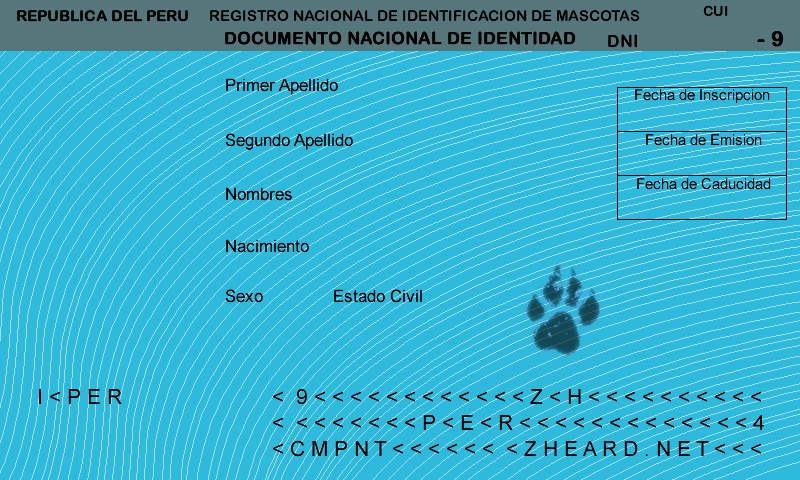
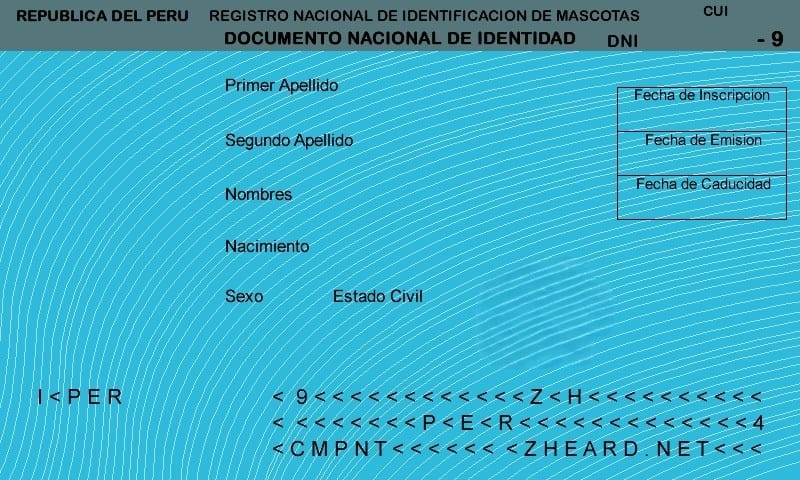
chore: OACI model done , ready  to update DNIDataModel in order to load below side from dni

Changed region(s): [[0.0, 0.0625, 1.0, 1.0]]

diff --git a/src/main/java/com/etlions/ms_cv_identity_doc/core/loader/OACIDataLoader.java b/src/main/java/com/etlions/ms_cv_identity_doc/core/loader/OACIDataLoader.java
@@ -1,0 +1,94 @@
+package com.etlions.ms_cv_identity_doc.core.loader;
+
+import com.etlions.ms_cv_identity_doc.core.model.OACIDataModel;
+import java.text.Normalizer;
+import java.time.LocalDate;
+import java.time.format.DateTimeFormatter;
+import java.util.Random;
+
+public class OACIDataLoader {
+
+    private static final int MRZ_LINE_LENGTH = 30;
+    private static final DateTimeFormatter MRZ_DATE = DateTimeFormatter.ofPattern("yyMMdd");
+    private static final Random RANDOM = new Random();
+
+    public static OACIDataModel generateOACI(
+            String documentNumber,
+            String nationality,
+            String firstLastName,
+            String firstName,
+            String secondName,
+            LocalDate birthDate,
+            LocalDate expirationDate,
+            String sex
+    ) {
+        String check1 = String.valueOf(RANDOM.nextInt(10));
+        String check2 = String.valueOf(RANDOM.nextInt(10));
+        String check3 = String.valueOf(RANDOM.nextInt(10));
+        String check4 = String.valueOf(RANDOM.nextInt(10));
+
+        String fullSurname = normalizeOACI(firstLastName);
+        String fullName = normalizeOACI(firstName) + (secondName != null && !secondName.isBlank() ? "<" + normalizeOACI(secondName) : "");
+
+        String line1 = padRight(
+                "I<" + formatCode(nationality) + padRight(documentNumber, 9, '<') + check1, // 4 = dummy check digit
+                MRZ_LINE_LENGTH, '<');
+
+        String birth = MRZ_DATE.format(birthDate);
+        String expiry = isOlderThan60(birthDate)
+                ? "000101"
+                : MRZ_DATE.format(expirationDate);
+
+        String baseLine2 = birth + check2 + sex.toUpperCase().charAt(0) + expiry + check3 + formatCode(nationality);
+        String line2 = padRight(baseLine2, MRZ_LINE_LENGTH - 1, '<') + check4;
+
+        String line3 = padRight(
+                fullSurname + "<<" + fullName,
+                MRZ_LINE_LENGTH, '<');
+
+        OACIDataModel oaci = new OACIDataModel();
+        oaci.setFirstLine(line1.split(""));
+        oaci.setSecondLine(line2.split(""));
+        oaci.setThirdLine(line3.split(""));
+        return oaci;
+    }
+
+    private static boolean isOlderThan60(LocalDate birthDate) {
+        return birthDate != null && birthDate.plusYears(60).isBefore(LocalDate.now());
+    }
+
+    private static String normalizeOACI(String input) {
+        if (input == null) return "";
+        return Normalizer.normalize(input, Normalizer.Form.NFD)
+                .replaceAll("\\p{M}", "")
+                .replaceAll("[^A-Z<]", "")
+                .replaceAll(" ", "<")
+                .toUpperCase();
+    }
+
+    private static String formatCode(String code) {
+        return (code == null || code.isBlank()) ? "PER" : code.toUpperCase();
+    }
+
+    private static String padRight(String text, int length, char filler) {
+        return text.length() >= length ? text.substring(0, length)
+                : text + String.valueOf(filler).repeat(length - text.length());
+    }
+
+    public static void main(String[] args) {
+        OACIDataModel oaci = generateOACI(
+                "72604199",
+                "PER",
+                "GARCIA",
+                "MARIA",
+                "GUADALUPE",
+                LocalDate.of(1960, 5, 23),
+                LocalDate.of(2025, 1, 1),
+                "F"
+        );
+
+        System.out.println("Línea 1: " + String.join("", oaci.getFirstLine()));
+        System.out.println("Línea 2: " + String.join("", oaci.getSecondLine()));
+        System.out.println("Línea 3: " + String.join("", oaci.getThirdLine()));
+    }
+}

diff --git a/src/main/java/com/etlions/ms_cv_identity_doc/core/verifier/DniVerifier.java b/src/main/java/com/etlions/ms_cv_identity_doc/core/verifier/DniVerifier.java
@@ -1,0 +1,40 @@
+package com.etlions.ms_cv_identity_doc.core.verifier;
+
+import java.util.function.Predicate;
+import java.util.stream.IntStream;
+
+public class DniVerifier {
+
+    private static final int[] MULTIPLICADORES = {3, 2, 7, 6, 5, 4, 3, 2};
+    private static final char[] SERIE_NUMERICA   = {'6', '7', '8', '9', '0', '1', '1', '2', '3', '4', '5'};
+    private static final char[] SERIE_ALFABETICA = {'K', 'A', 'B', 'C', 'D', 'E', 'F', 'G', 'H', 'I', 'J'};
+
+    private static final Predicate<String> VALID_DNI_FORMAT =
+            dni -> dni != null && dni.matches("\\d{8}") && !dni.matches("0{8}");
+
+    public static String calculateVerifierNumber(String dni, boolean esMayorDe60) {
+        if (!VALID_DNI_FORMAT.test(dni)) {
+            throw new IllegalArgumentException("El DNI debe tener exactamente 8 dígitos numéricos.");
+        }
+
+        int suma = IntStream.range(0, 8)
+                .map(i -> Character.getNumericValue(dni.charAt(i)) * MULTIPLICADORES[i])
+                .sum();
+
+        int position = calculatePosition(suma);
+        char[] serial = esMayorDe60 ? SERIE_ALFABETICA : SERIE_NUMERICA;
+
+        if (position >= 0 && position < serial.length) {
+            return String.valueOf(serial[position]);
+        }
+
+        throw new IllegalStateException("La posición del verificador está fuera del rango permitido.");
+    }
+
+    private static int calculatePosition(int suma) {
+        int result = 11 - (suma % 11);
+        if (result == 10) return 0;
+        if (result == 11) return 1;
+        return result;
+    }
+}

diff --git a/src/main/java/com/etlions/ms_cv_identity_doc/core/model/DNIDataModel.java b/src/main/java/com/etlions/ms_cv_identity_doc/core/model/DNIDataModel.java
@@ -1,0 +1,39 @@
+package com.etlions.ms_cv_identity_doc.core.model;
+
+import lombok.Getter;
+import lombok.Setter;
+
+import java.io.InputStream;
+import java.time.LocalDate;
+
+@Setter
+@Getter
+public class DNIDataModel {
+    /* Detalle Parte superior */
+    private String isDuplicate;
+    private String dni;
+    private String verifierCode;
+
+    /* Detalle Parte media izquierda */
+
+    private InputStream photo1;
+    private String firstLastName;
+    private String secondLastName;
+    private String firstName;
+    private String secondName;
+    private LocalDate birthDate;
+    private String birthPlace;
+    private String sex;
+    private String maritalStatus;
+
+    /* Detalle Parte media izquierda */
+    private InputStream signature;
+    private LocalDate registrationDate;
+    private LocalDate emissionDate;
+    private LocalDate expirationDate;
+    private InputStream photo2;
+
+    /* Detalle Parte inferior */
+    private OACIDataModel oaciDataModel;
+
+}

diff --git a/src/main/java/com/etlions/ms_cv_identity_doc/core/generator/DNIBufferedGenerator.java b/src/main/java/com/etlions/ms_cv_identity_doc/core/generator/DNIBufferedGenerator.java
@@ -1,11 +1,11 @@
-package com.etlions.ms_cv_identity_doc.core;
+package com.etlions.ms_cv_identity_doc.core.generator;
 import javax.imageio.ImageIO;
 import java.awt.*;
 import java.awt.image.BufferedImage;
 import java.io.File;
 import java.util.Random;
 
-public class DniImageGenerator {
+public class DNIBufferedGenerator {
     private static final String[] NOMBRES = {"Ana Gómez", "Juan Pérez", "María López", "Carlos Ruiz"};
     private static final Random RANDOM = new Random();
     private static final String OUTPUT_DIR = "dataset/";

diff --git a/src/main/java/com/etlions/ms_cv_identity_doc/openapi/GenerateOpenApiAdapter.java b/src/main/java/com/etlions/ms_cv_identity_doc/openapi/GenerateOpenApiAdapter.java
@@ -15,11 +15,8 @@ import java.time.LocalDateTime;
 @Controller
 public class GenerateOpenApiAdapter implements GenerateApi {
 
-
-
     @Override
     public ResponseEntity<SuccessResponse> generateDocDniPost(GenerateDNIRequest generateDNIRequest) {
-
         return ResponseEntity.ok(SuccessResponse.builder()
                 .isSuccess(true)
                 .message("Endpoint working")

diff --git a/src/main/java/com/etlions/ms_cv_identity_doc/core/model/OACIDataModel.java b/src/main/java/com/etlions/ms_cv_identity_doc/core/model/OACIDataModel.java
@@ -1,0 +1,12 @@
+package com.etlions.ms_cv_identity_doc.core.model;
+import lombok.Getter;
+import lombok.Setter;
+
+@Getter
+@Setter
+public class OACIDataModel {
+    private String[] firstLine;
+    private String[] secondLine;
+    private String[] thirdLine;
+}
+

diff --git a/src/main/java/com/etlions/ms_cv_identity_doc/core/generator/PassportBufferedGenerator.java b/src/main/java/com/etlions/ms_cv_identity_doc/core/generator/PassportBufferedGenerator.java
@@ -1,0 +1,4 @@
+package com.etlions.ms_cv_identity_doc.core.generator;
+
+public class PassportBufferedGenerator {
+}

diff --git a/src/main/java/com/etlions/ms_cv_identity_doc/core/generator/CEBufferedGenerator.java b/src/main/java/com/etlions/ms_cv_identity_doc/core/generator/CEBufferedGenerator.java
@@ -1,0 +1,4 @@
+package com.etlions.ms_cv_identity_doc.core.generator;
+
+public class CEBufferedGenerator {
+}

diff --git a/src/main/java/com/etlions/ms_cv_identity_doc/core/loader/DNISampleDataLoader.java b/src/main/java/com/etlions/ms_cv_identity_doc/core/loader/DNISampleDataLoader.java
@@ -1,0 +1,4 @@
+package com.etlions.ms_cv_identity_doc.core.loader;
+
+public class DNISampleDataLoader {
+}

diff --git a/src/main/java/com/etlions/ms_cv_identity_doc/core/loader/PassportDataLoader.java b/src/main/java/com/etlions/ms_cv_identity_doc/core/loader/PassportDataLoader.java
@@ -1,0 +1,4 @@
+package com.etlions.ms_cv_identity_doc.core.loader;
+
+public class PassportDataLoader {
+}

diff --git a/src/main/java/com/etlions/ms_cv_identity_doc/core/model/PassportDataModel.java b/src/main/java/com/etlions/ms_cv_identity_doc/core/model/PassportDataModel.java
@@ -1,0 +1,4 @@
+package com.etlions.ms_cv_identity_doc.core.model;
+
+public class PassportDataModel {
+}

diff --git a/src/main/java/com/etlions/ms_cv_identity_doc/core/loader/CEDataLoader.java b/src/main/java/com/etlions/ms_cv_identity_doc/core/loader/CEDataLoader.java
@@ -1,0 +1,4 @@
+package com.etlions.ms_cv_identity_doc.core.loader;
+
+public class CEDataLoader {
+}
